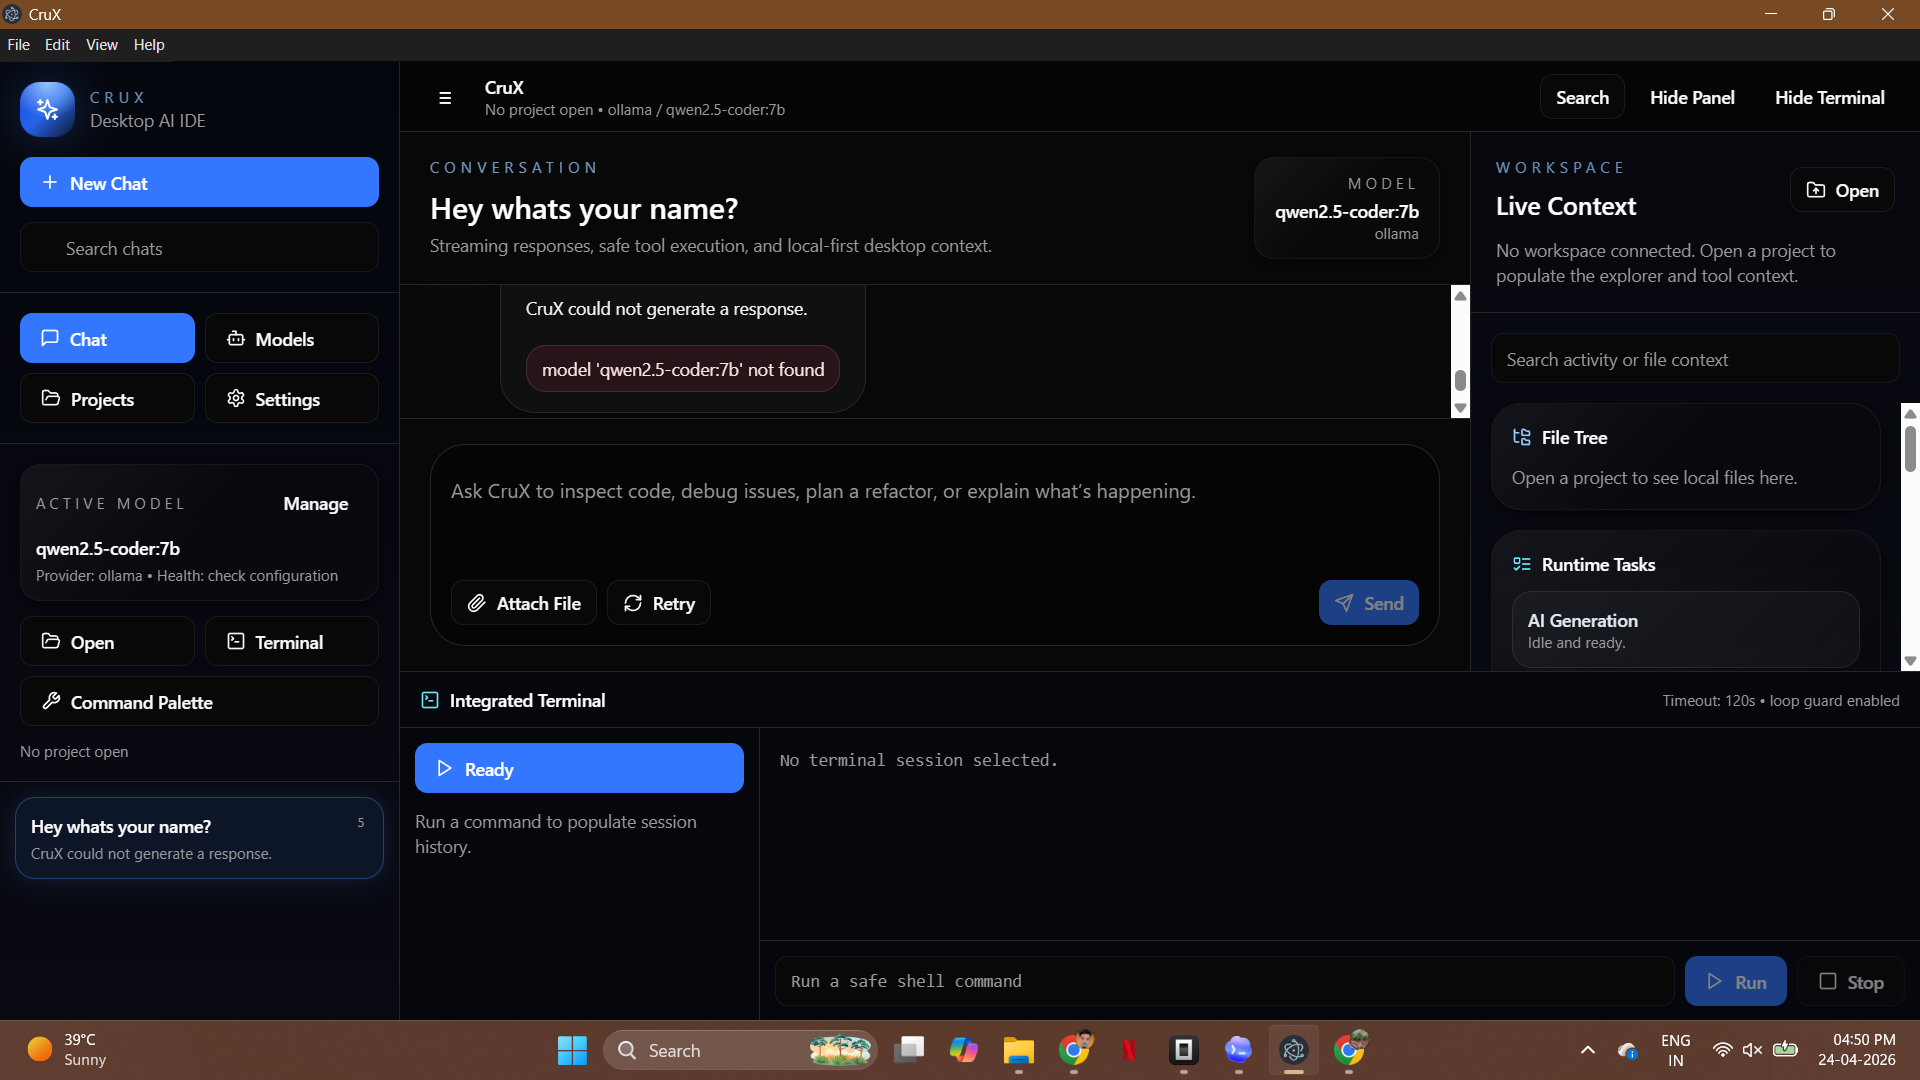
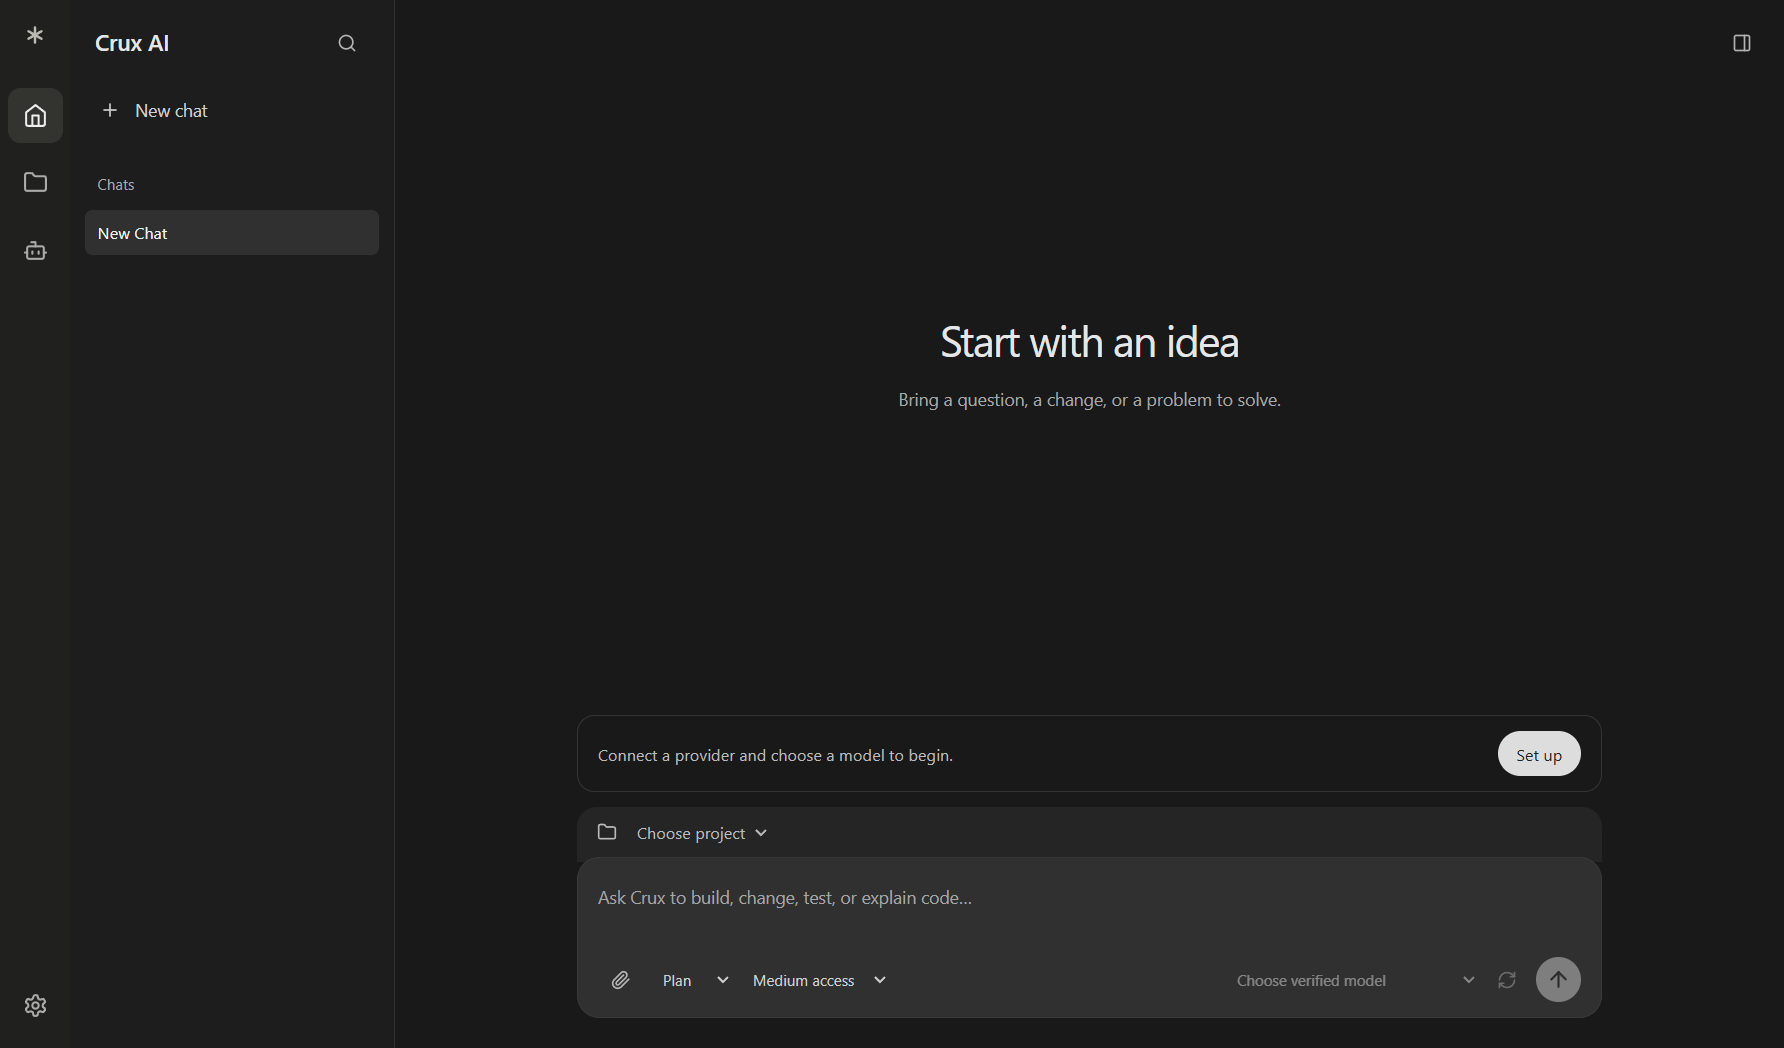
Refresh Crux AI desktop UI screenshot in README

diff --git a/README.md b/README.md
@@ -2,6 +2,12 @@
 
 A local desktop AI coding workspace built with Electron, React and TypeScript. Plan, implement and debug in one persistent project session, with configurable providers, reusable agents and skills, and permission-controlled tools.
 
+## UI preview
+
+![Crux AI desktop home and chat composer](docs/images/crux-desktop-ui.png)
+
+Current desktop UI captured with an empty profile; no private projects or credentials are shown.
+
 ## Installation
 
 Requirements: **Node.js 22 LTS**, npm, Git and a graphical desktop session. Windows is the locally tested target.
